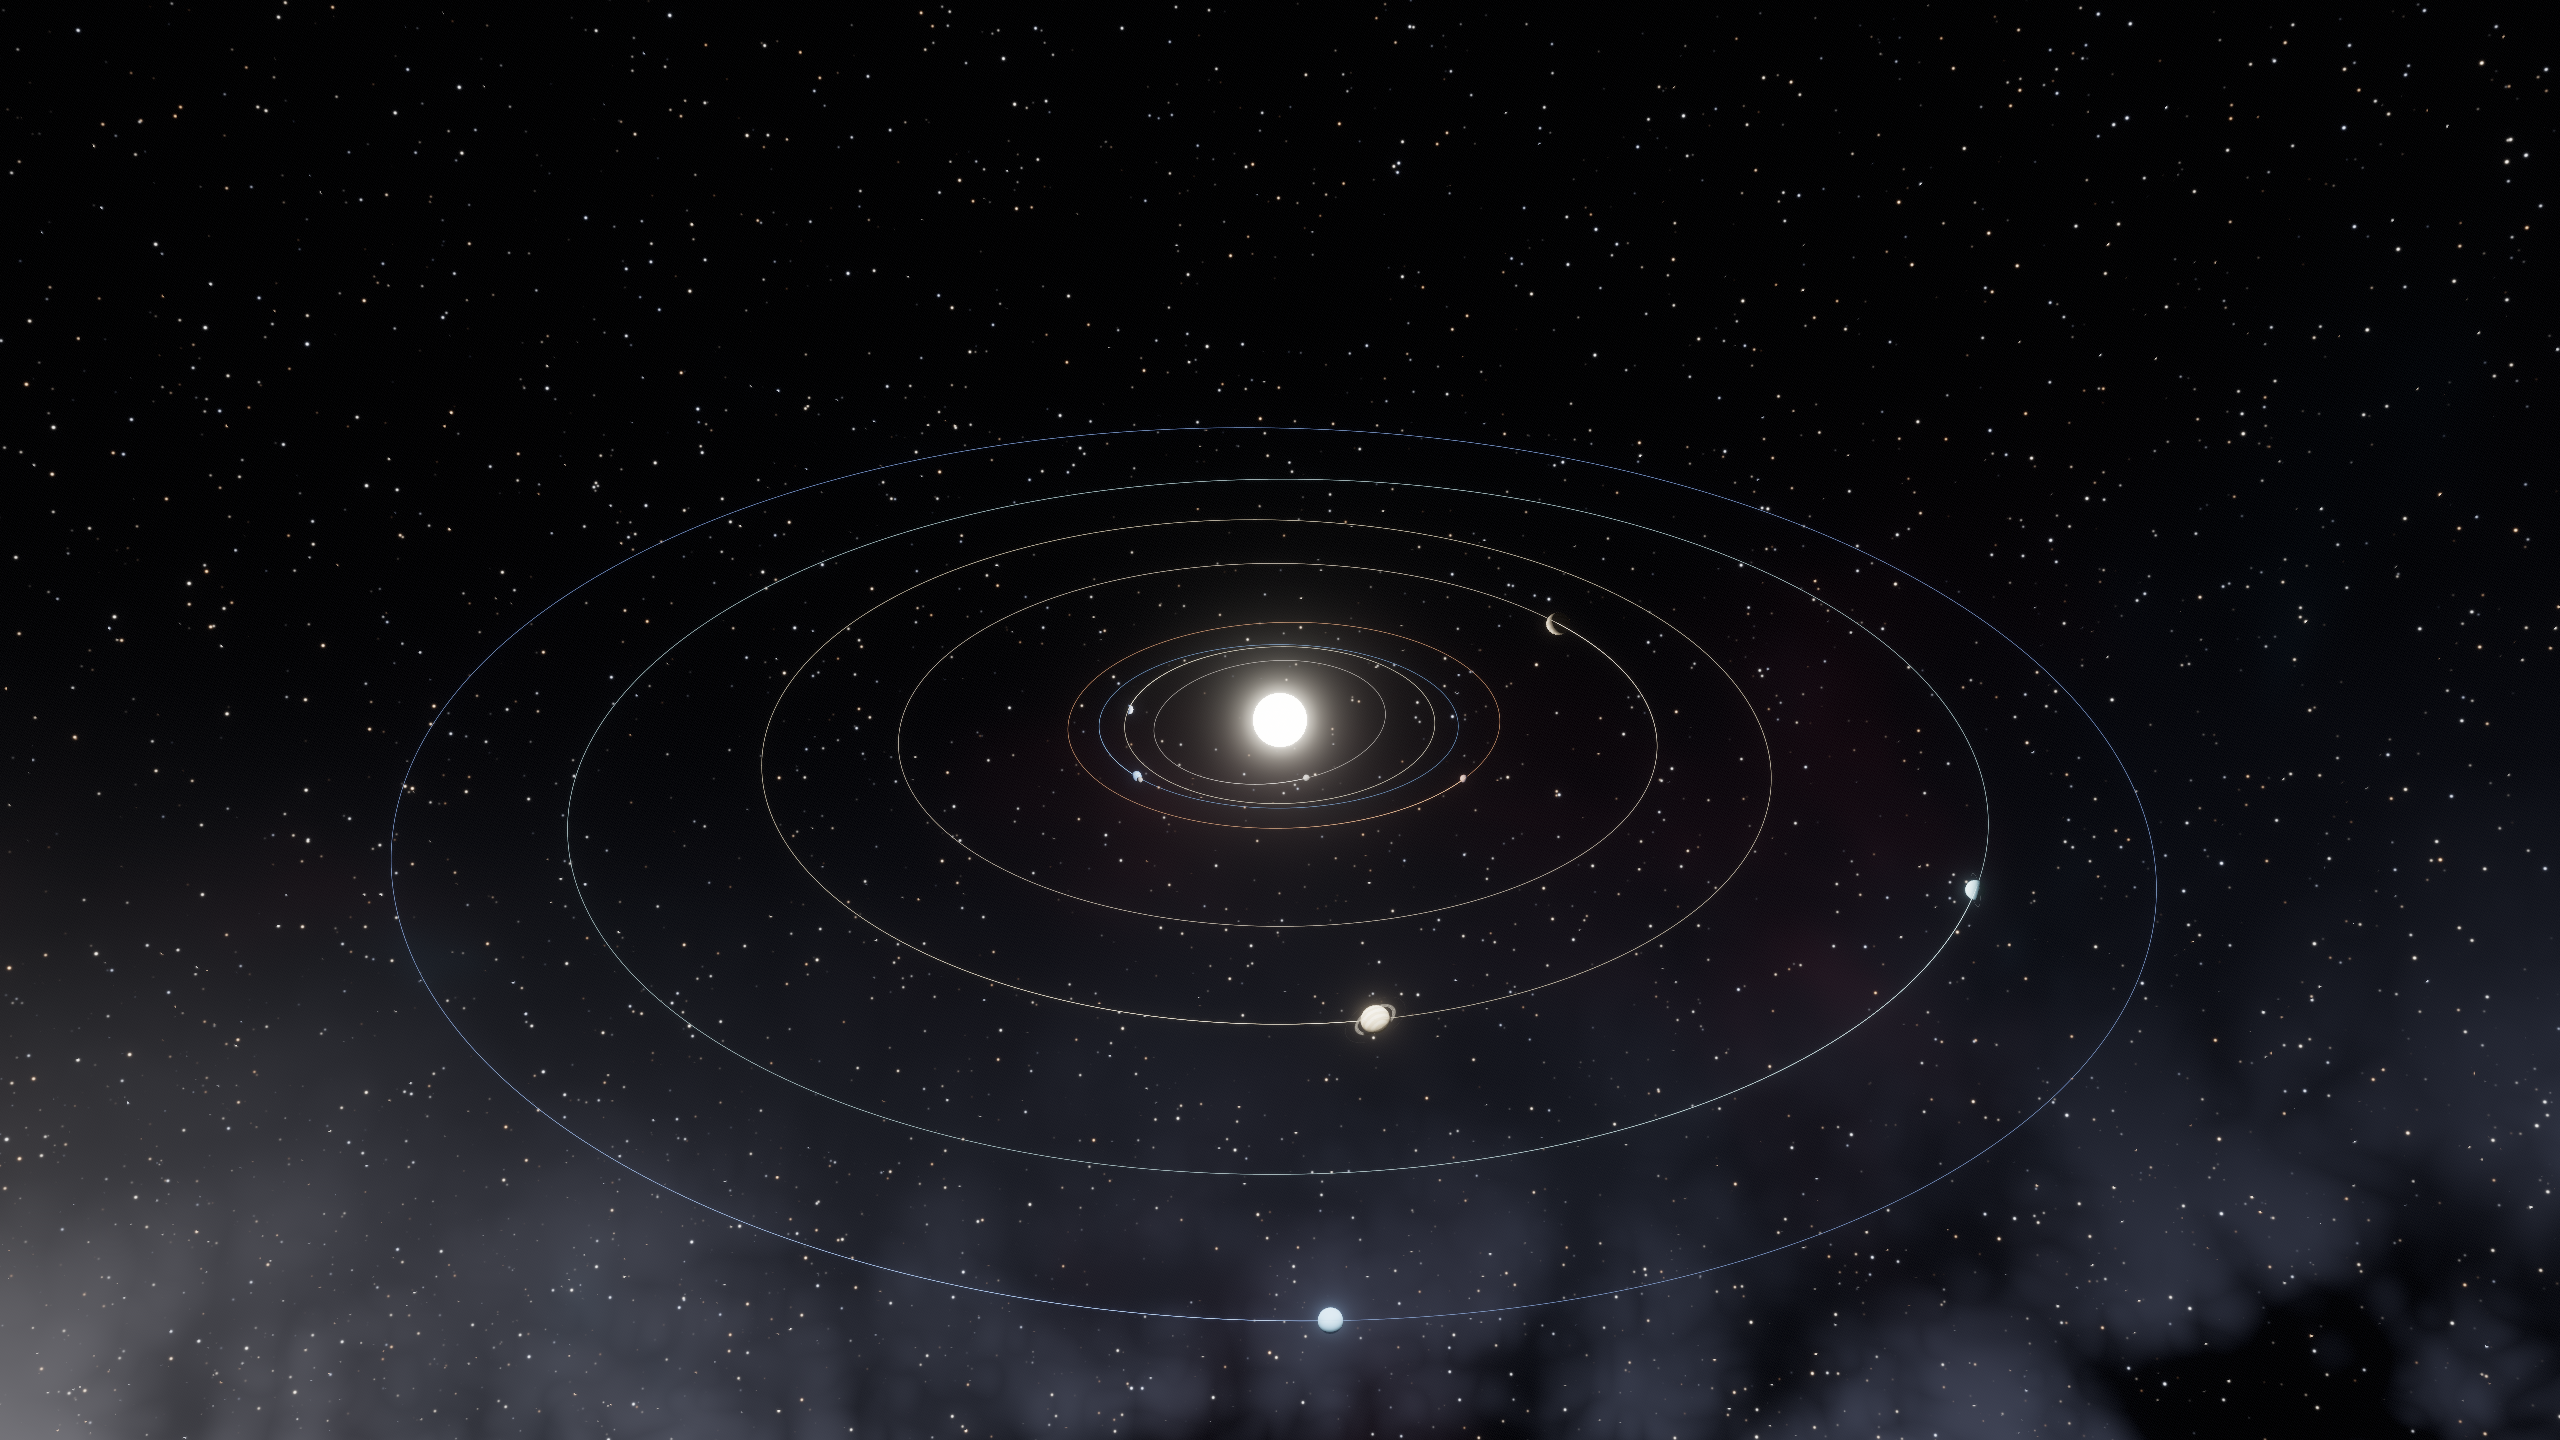
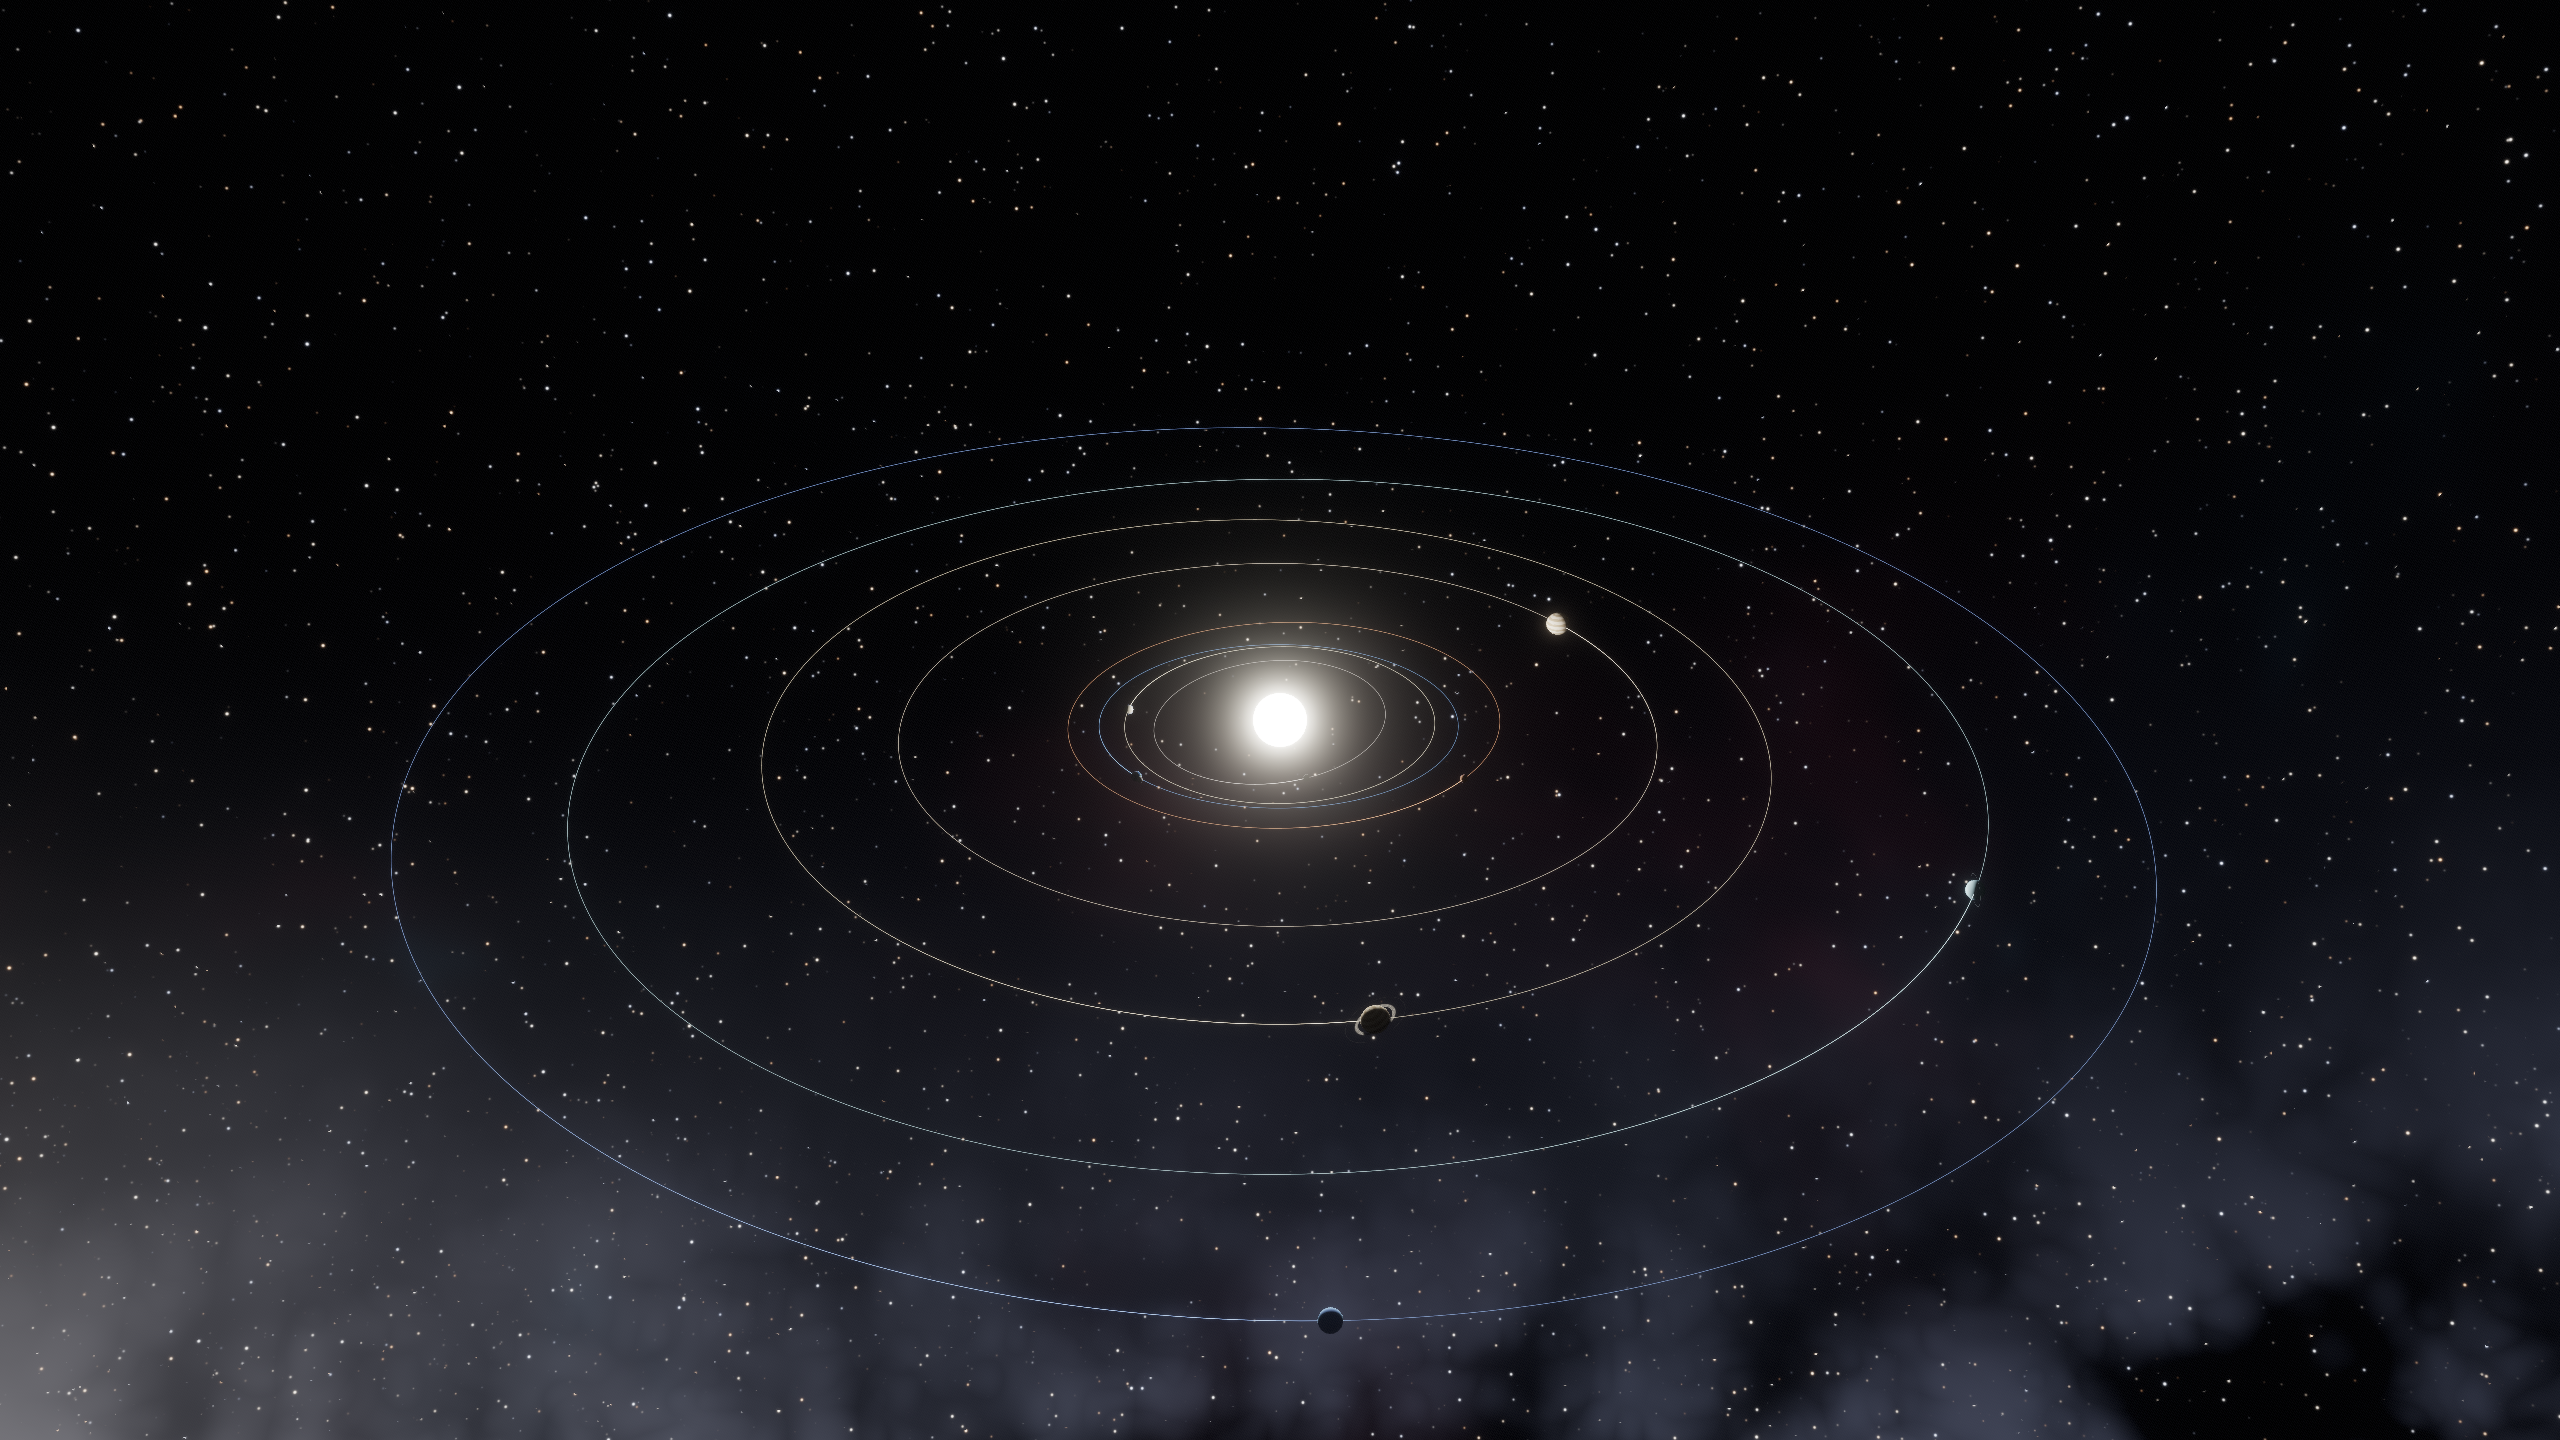
Fix sphere winding so planet lighting is not mirrored
The UV sphere was wound clockwise seen from outside, so back-face
culling discarded the near hemisphere and drew the inside of the far
one. Every planet's day/night terminator was mirrored as a result.

This is exactly the failure visual inspection cannot catch: a lit ball
with an inverted terminator still looks like a lit ball. It rendered
plausibly through several review passes and was only caught by the
winding test. With it fixed, foreground Saturn correctly shows mostly
its night side instead of being fully lit.

The test's degeneracy guard also needed widening: sin(PI) is 8.7e-8 in
f32 rather than 0, so the south-pole triangles have a tiny non-zero area
whose normal is pure rounding noise.

Changed region(s): [[0.4375, 0.4062, 0.5625, 0.5938], [0.5312, 0.6875, 0.5625, 0.7188], [0.5, 0.9062, 0.5312, 0.9375]]

diff --git a/crates/orrery-render/src/geometry.rs b/crates/orrery-render/src/geometry.rs
@@ -61,8 +61,9 @@ pub fn sphere(segments: u32, rings: u32) -> Mesh {
         for segment in 0..segments {
             let a = ring * stride + segment;
             let b = a + stride;
-            // Counter-clockwise when seen from outside.
-            indices.extend_from_slice(&[a, b, a + 1, a + 1, b, b + 1]);
+            // Counter-clockwise seen from outside, which is what the default
+            // front face and back-face culling expect.
+            indices.extend_from_slice(&[a, a + 1, b, a + 1, b + 1, b]);
         }
     }
 
@@ -135,8 +136,14 @@ mod tests {
                 .map(|i| glam::Vec3::from(mesh.vertices[*i as usize].position))
                 .collect();
             let normal = (p[1] - p[0]).cross(p[2] - p[0]);
-            // Degenerate triangles occur at the poles; skip them.
-            if normal.length() < 1e-9 {
+            // Both poles collapse a whole ring of vertices to one point, so the
+            // triangles there are degenerate and their winding is meaningless.
+            // The threshold has to be generous: `sin(PI)` is 8.7e-8 in f32
+            // rather than 0, so the south-pole triangles have a small but very
+            // much non-zero area whose normal is pure rounding noise. Genuine
+            // triangles on this mesh have normals around 5e-2, so 1e-4
+            // separates the two cleanly.
+            if normal.length() < 1e-4 {
                 continue;
             }
             let centroid = (p[0] + p[1] + p[2]) / 3.0;
